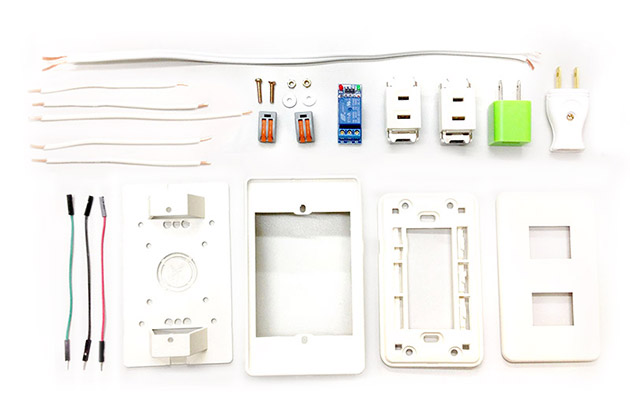
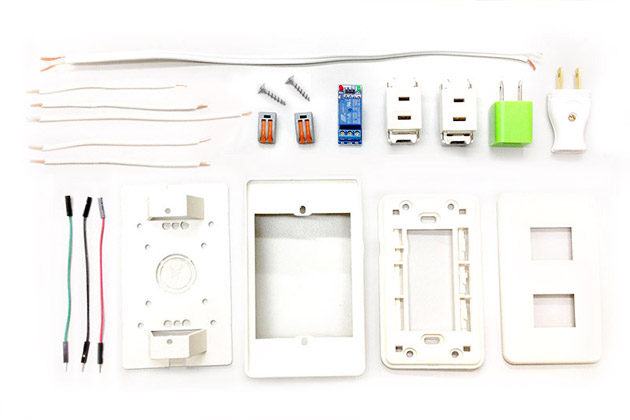
change image

diff --git a/buy/webduino-package-socket.html b/buy/webduino-package-socket.html
@@ -1,4 +1,4 @@
-<!DOCTYPE html> <html lang="en"> <head> <meta charset="UTF-8"> <meta http-equiv="pragma" content="no-cache"> <meta name="viewport" content="width=device-width, initial-scale=1, maximum-scale=1, user-scalable=no"> <meta name="author" content="webduino.io"> <meta name="copyright" content="webduino.io"> <meta itemprop="name" content="webduino.io"> <link rel="icon" href="../img/layout/favicon.ico" type="image/x-icon"> <title>Webduino 智慧插座套件 ( 電子材料包 ) - 產品總覽 ::: Webduino = Web × Arduino</title> <meta name="description" content="Webduino 智慧插座是將我們一般生活裡常見的插座改裝，透過馬克一號或是 Fly 與繼電器的輔助，讓插座可透過無線網路連上雲端，如此一來就可以輕鬆實現手機遙控插座、設定插座自動供電設施、依據氣溫自動啟動風扇...等智慧插座應用。"> <meta itemprop="description" content="Webduino 智慧插座是將我們一般生活裡常見的插座改裝，透過馬克一號或是 Fly 與繼電器的輔助，讓插座可透過無線網路連上雲端，如此一來就可以輕鬆實現手機遙控插座、設定插座自動供電設施、依據氣溫自動啟動風扇...等智慧插座應用。"> <meta property="og:description" content="Webduino 智慧插座是將我們一般生活裡常見的插座改裝，透過馬克一號或是 Fly 與繼電器的輔助，讓插座可透過無線網路連上雲端，如此一來就可以輕鬆實現手機遙控插座、設定插座自動供電設施、依據氣溫自動啟動風扇...等智慧插座應用。"> <meta property="og:title" content="Webduino 智慧插座套件 ( 電子材料包 )"> <meta property="og:url" content="https://webduino.io/buy/webduino-package-socket.html"> <meta property="og:image" content="https://webduino.io/img/buy/package-socket-01s.jpg"> <meta itemprop="image" content="https://webduino.io/img/buy/package-socket-01s.jpg"> <script src="../js/lib/jquery.min.js"></script> <script src="../js/lib/jquery.lazyload.min.js"></script> <script src="../js/layout.js"></script> <script src="../js/buy.js"></script> <script src="../js/lib/disqus.js"></script> <link rel="stylesheet" href="../style/css/layout.css"> <link rel="stylesheet" href="../style/css/sub-header.css"> <link rel="stylesheet" href="../style/css/buy-content.css"> </head> <body> <header class="path-0"> <a class="logo" href="index.html" data-name="layout-header-logo"></a> <div class="mobile-menu"></div> <div class="menu"> <a href="index.html" class="index" data-name="layout-mobile-menu">首頁</a> <a href="tutorials.html" class="tutorials" data-name="layout-mobile-menu">教學範例</a> <a href="buy.html" class="buy" data-name="layout-mobile-menu">產品總覽</a> <a href="activity.html" class="activity" data-name="layout-mobile-menu">課程活動</a> <a data-name="layout-mobile-menu" href="https://www.facebook.com/webduino/info?tab=overview" target="_blank">連絡我們</a> </div> </header> <header class="path-1"> <a class="logo" href="../index.html"></a> <div class="mobile-menu"></div> <div class="menu"> <a href="../index.html" class="index" data-name="layout-menu">首頁</a> <a href="../tutorials.html" class="tutorials" data-name="layout-menu">教學範例</a> <a href="../buy.html" class="buy" data-name="layout-menu">產品總覽</a> <a href="../activity.html" class="activity" data-name="layout-menu">課程活動</a> <a data-name="layout-mobile-menu" href="https://www.facebook.com/webduino/info?tab=overview" target="_blank">連絡我們</a> </div> </header> <div class="banner"> <img src="../img/buy/webduino-package-socket-01.jpg"> </div> <div class="content"> <h1>Webduino 智慧插座套件 ( 電子材料包 )</h1> <p>Webduino 智慧插座是將我們一般生活裡常見的插座改裝，透過馬克一號或是 Fly 與繼電器的輔助，讓插座可透過無線網路連上雲端，如此一來就可以輕鬆實現手機遙控插座、設定插座自動供電設施、依據氣溫自動啟動風扇...等智慧插座應用。</p> <h2>售價：</h2> <p><strong>新台幣 630 元整</strong> ( 已含稅，原價 840 )</p> <div class="ruten"> <a href="http://webduinoio.github.io/ruten/ruten.html#21624898592501" target="_blank" data-name="ruten-button"><i class="fa fa-shopping-cart"></i> 立刻購買</a> </div> <p>點選「立刻購買」，將會前往 Webduino 露天賣場，貨運可以選擇「超商貨到付款」、「郵局包裹」、「7-11 取貨」模式，購買前請先 <a class="btn-know">閱讀購買須知以及退換貨說明</a>，歡迎政府機關、教育單位或公司行號採購，採購相關資訊請 <a href="mailto:service@webduino.io" target="_blank">來信</a> 或來電 07-3388511 洽詢。</p> <h2>產品內容：</h2> <ul> <li>1. 雙孔插外盒 x1</li> <li>2. 底板 x1</li> <li>3. 上層夾板 x1</li> <li>4. 螺絲、螺帽、墊片 x2</li> <li>5. 插座 x2</li> <li>6. 單心線 x5</li> <li>7. 插頭 x1</li> <li>8. 插頭電線 x1</li> <li>9. 快速接頭 x2</li> <li>10.杜邦線 ( 公母 ) x3</li> <li>11.繼電器 x1</li> <li>12.USB 接頭 x1</li> </ul> <h2>產品照片：</h2> <p><img src="../img/buy/webduino-package-socket-02.jpg" style="max-width:800px;"></p> <h2>和 Webduino 馬克 1 號組裝後長相：</h2> <p><img src="../img/buy/webduino-package-socket-03.jpg" style="max-width:900px;"></p> <div class="need-know" id="need-know"> <h4>購買須知 & 聲明：</h4> <div>當您透過 Webduino 的客服管道購買 Webduino 商品時，即表示您已詳細閱讀、明確瞭解並同意本 Webduino 出列舉注意事項之所有內容與規範。 <a class="readmore" data-name="readmore-button">閱讀相關內容 ( 點選展開 )</a> <ul> <li>1. 若有報帳需求，請提供「<strong>公司抬頭」與「統一編號」</strong>，歡迎公司行號、教育單位與政府機關採購。</li> <li>2. 我們會在<strong>每週一、四</strong>出貨，若您超過一個星期都尚未收到通知，麻煩與我們聯繫。</li> <li>3. 數量超過 1 件請確認貨運金額 ( 沒問題的話應該只會計算一次運費 )，金額有誤請與我們聯繫。</li> <li>4. 若<strong>收件地點為離島、國外...等非台灣本島地區，請與我們聯繫</strong>，確認相關運費與寄收件事宜。</li> <li>5. Webduino 團隊針對消費者與個人資料之蒐集和運用，依中華民國「電腦處理個人資料保護法」， 除事先說明或依台灣法律規定外，不會擅自將您的個人資料提供給第三者或作為其他目的之用。</li> </ul> </div> </div> <div class="need-know"> <h4>退換貨須知：</h4> <div>我們所提供的瑕疵與退換貨等售後服務，<strong>為收到商品的隔日起算的七日內（ 含例假日 ）</strong>。請您務必在收到商品時立即檢查商品，可以藉由教學實作的「<a href="../tutorials/info-02-setup.html" target="_blank">初始化設定</a>」以及「<a href="../tutorials/tutorial-01-led.html" target="_blank">第一個範例</a>」進行測試。 <a class="readmore" data-name="readmore-button">閱讀相關內容 ( 點選展開 )</a> <ul> <li>1. 請確認商品內容、品項、數量和是否為瑕疵商品的退貨。</li> <li>2. 退換貨商品請保持數樣與外觀完整，並且保持完整包裝。</li> <li>3. 如欲退換貨的瑕疵商品，請於辦理退換貨的同時，將商品配件請一併寄回。</li> <li>4. 若為人為操作造成的商品損壞，不在退換貨的範圍之內。</li> <li>5. 若非為瑕疵品或錯誤商品，退貨的郵資需由購買者負擔。</li> <li>6. 由於電子零件生產製程因素，可能邊緣會有輕微不平整、焊錫大小不同、黏著劑輕微不均勻的情形發生，均屬正常現象，這些不在我們列入的瑕疵商品，還請您見諒。</li> <li>7. 訂單一旦成立並且付款完成，我們會盡速為您準備您的商品。服務期間若您對處理方式或狀況有疑問，歡迎與 Webduino 客服聯繫。<br>( 客服時間：週一至週五 09:30 ~ 18:00，Email： <a href="mailto:service@webduino.io" target="_blank">service@webduino.io</a>，<a href="https://www.facebook.com/webduino" target="_blank">Facebook 粉絲團</a>傳訊息，或來電 07-3388511 )</li> </ul> </div> </div> <div class="need-more"> <h4>瞭解更多產品方案：</h4> <div><a href="component-webduino-v1.html">Webduino 馬克 1 號</a></div> <div><a href="component-webduino-fly.html">Webduino Fly ( Arduino UNO 雲端擴充板 )</a></div> <div><a href="component-webduino-uno-fly.html">Webduino Fly + Arduino UNO</a></div> <div><a href="webduino-developer-a.html">Webduino 開發者套件 - 基本包</a></div> <div><a href="webduino-developer-b.html">Webduino 開發者套件 - 威力加強包</a></div> <div><a href="webduino-package-plus.html">Webduino 基本套件 Plus ( 6/20 開始販售 )</a></div> <div><a href="webduino-package-all.html">Webduino 豪華套件包 ( 6/20 開始販售 )</a></div> <div><a href="webduino-expansion-s.html">Webduino 擴充套件 S ( 6/20 開始販售 )</a></div> <div><a href="webduino-expansion-m.html">Webduino 擴充套件 M ( 6/20 開始販售 )</a></div> <div><a href="webduino-expansion-p.html">Webduino 擴充套件 P ( 6/20 開始販售 )</a></div> <div><a href="webduino-package-b.html">Webduino Package B ( 電子材料包 )</a></div> <div><a href="webduino-package-ab.html">Webduino Package A + B ( 電子材料包 )</a></div> <div><a href="webduino-package-c.html">Webduino Package C ( 電子材料包 )</a></div> <div><a href="webduino-package-toycar.html">Webduino 公仔自走車 ( 電子材料包 )</a></div> <div><a href="webduino-package-socket.html">Webduino 智慧插座套件 ( 6/20 開始販售 )</a></div> </div> </div> <div class="tutorials-content"> <div class="banner"> </div> </div> <div class="disqus"> <div id="disqus_thread"></div> </div> <footer> <div class="logo"> <a href="index.html" data-name="layout-footer-logo"><i></i></a> <a href="../index.html" data-name="layout-footer-logo"><i></i></a> </div> <h4>Copyright 2015 | All Rights Reserved. Power by Webduino.io</h4> <h4>80661 高雄市前鎮區復興四路 20 號 1 樓 / 886-7-3388511</h4> </footer> <script>
+<!DOCTYPE html> <html lang="en"> <head> <meta charset="UTF-8"> <meta http-equiv="pragma" content="no-cache"> <meta name="viewport" content="width=device-width, initial-scale=1, maximum-scale=1, user-scalable=no"> <meta name="author" content="webduino.io"> <meta name="copyright" content="webduino.io"> <meta itemprop="name" content="webduino.io"> <link rel="icon" href="../img/layout/favicon.ico" type="image/x-icon"> <title>Webduino 智慧插座套件 ( 電子材料包 ) - 產品總覽 ::: Webduino = Web × Arduino</title> <meta name="description" content="Webduino 智慧插座是將我們一般生活裡常見的插座改裝，透過馬克一號或是 Fly 與繼電器的輔助，讓插座可透過無線網路連上雲端，如此一來就可以輕鬆實現手機遙控插座、設定插座自動供電設施、依據氣溫自動啟動風扇...等智慧插座應用。"> <meta itemprop="description" content="Webduino 智慧插座是將我們一般生活裡常見的插座改裝，透過馬克一號或是 Fly 與繼電器的輔助，讓插座可透過無線網路連上雲端，如此一來就可以輕鬆實現手機遙控插座、設定插座自動供電設施、依據氣溫自動啟動風扇...等智慧插座應用。"> <meta property="og:description" content="Webduino 智慧插座是將我們一般生活裡常見的插座改裝，透過馬克一號或是 Fly 與繼電器的輔助，讓插座可透過無線網路連上雲端，如此一來就可以輕鬆實現手機遙控插座、設定插座自動供電設施、依據氣溫自動啟動風扇...等智慧插座應用。"> <meta property="og:title" content="Webduino 智慧插座套件 ( 電子材料包 )"> <meta property="og:url" content="https://webduino.io/buy/webduino-package-socket.html"> <meta property="og:image" content="https://webduino.io/img/buy/package-socket-01s.jpg"> <meta itemprop="image" content="https://webduino.io/img/buy/package-socket-01s.jpg"> <script src="../js/lib/jquery.min.js"></script> <script src="../js/lib/jquery.lazyload.min.js"></script> <script src="../js/layout.js"></script> <script src="../js/buy.js"></script> <script src="../js/lib/disqus.js"></script> <link rel="stylesheet" href="../style/css/layout.css"> <link rel="stylesheet" href="../style/css/sub-header.css"> <link rel="stylesheet" href="../style/css/buy-content.css"> </head> <body> <header class="path-0"> <a class="logo" href="index.html" data-name="layout-header-logo"></a> <div class="mobile-menu"></div> <div class="menu"> <a href="index.html" class="index" data-name="layout-mobile-menu">首頁</a> <a href="tutorials.html" class="tutorials" data-name="layout-mobile-menu">教學範例</a> <a href="buy.html" class="buy" data-name="layout-mobile-menu">產品總覽</a> <a href="activity.html" class="activity" data-name="layout-mobile-menu">課程活動</a> <a data-name="layout-mobile-menu" href="https://www.facebook.com/webduino/info?tab=overview" target="_blank">連絡我們</a> </div> </header> <header class="path-1"> <a class="logo" href="../index.html"></a> <div class="mobile-menu"></div> <div class="menu"> <a href="../index.html" class="index" data-name="layout-menu">首頁</a> <a href="../tutorials.html" class="tutorials" data-name="layout-menu">教學範例</a> <a href="../buy.html" class="buy" data-name="layout-menu">產品總覽</a> <a href="../activity.html" class="activity" data-name="layout-menu">課程活動</a> <a data-name="layout-mobile-menu" href="https://www.facebook.com/webduino/info?tab=overview" target="_blank">連絡我們</a> </div> </header> <div class="banner"> <img src="../img/buy/webduino-package-socket-01.jpg"> </div> <div class="content"> <h1>Webduino 智慧插座套件 ( 電子材料包 )</h1> <p>Webduino 智慧插座是將我們一般生活裡常見的插座改裝，透過馬克一號或是 Fly 與繼電器的輔助，讓插座可透過無線網路連上雲端，如此一來就可以輕鬆實現手機遙控插座、設定插座自動供電設施、依據氣溫自動啟動風扇...等智慧插座應用。</p> <h2>售價：</h2> <p><strong>新台幣 630 元整</strong> ( 已含稅，原價 840 )</p> <div class="ruten"> <a href="http://webduinoio.github.io/ruten/ruten.html#21624898592501" target="_blank" data-name="ruten-button"><i class="fa fa-shopping-cart"></i> 立刻購買</a> </div> <p>點選「立刻購買」，將會前往 Webduino 露天賣場，貨運可以選擇「超商貨到付款」、「郵局包裹」、「7-11 取貨」模式，購買前請先 <a class="btn-know">閱讀購買須知以及退換貨說明</a>，歡迎政府機關、教育單位或公司行號採購，採購相關資訊請 <a href="mailto:service@webduino.io" target="_blank">來信</a> 或來電 07-3388511 洽詢。</p> <h2>產品內容：</h2> <ul> <li>1. 雙孔插外盒 x1</li> <li>2. 底板 x1</li> <li>3. 上層夾板 x1</li> <li>4. 螺絲 x2</li> <li>5. 插座 x2</li> <li>6. 單心線 x5</li> <li>7. 插頭 x1</li> <li>8. 插頭電線 x1</li> <li>9. 快速接頭 x2</li> <li>10.杜邦線 ( 公母 ) x3</li> <li>11.繼電器 x1</li> <li>12.USB 接頭 x1</li> </ul> <h2>產品照片：</h2> <p><img src="../img/buy/webduino-package-socket-02.jpg" style="max-width:800px;"></p> <h2>和 Webduino 馬克 1 號組裝後長相：</h2> <p><img src="../img/buy/webduino-package-socket-03.jpg" style="max-width:900px;"></p> <div class="need-know" id="need-know"> <h4>購買須知 & 聲明：</h4> <div>當您透過 Webduino 的客服管道購買 Webduino 商品時，即表示您已詳細閱讀、明確瞭解並同意本 Webduino 出列舉注意事項之所有內容與規範。 <a class="readmore" data-name="readmore-button">閱讀相關內容 ( 點選展開 )</a> <ul> <li>1. 若有報帳需求，請提供「<strong>公司抬頭」與「統一編號」</strong>，歡迎公司行號、教育單位與政府機關採購。</li> <li>2. 我們會在<strong>每週一、四</strong>出貨，若您超過一個星期都尚未收到通知，麻煩與我們聯繫。</li> <li>3. 數量超過 1 件請確認貨運金額 ( 沒問題的話應該只會計算一次運費 )，金額有誤請與我們聯繫。</li> <li>4. 若<strong>收件地點為離島、國外...等非台灣本島地區，請與我們聯繫</strong>，確認相關運費與寄收件事宜。</li> <li>5. Webduino 團隊針對消費者與個人資料之蒐集和運用，依中華民國「電腦處理個人資料保護法」， 除事先說明或依台灣法律規定外，不會擅自將您的個人資料提供給第三者或作為其他目的之用。</li> </ul> </div> </div> <div class="need-know"> <h4>退換貨須知：</h4> <div>我們所提供的瑕疵與退換貨等售後服務，<strong>為收到商品的隔日起算的七日內（ 含例假日 ）</strong>。請您務必在收到商品時立即檢查商品，可以藉由教學實作的「<a href="../tutorials/info-02-setup.html" target="_blank">初始化設定</a>」以及「<a href="../tutorials/tutorial-01-led.html" target="_blank">第一個範例</a>」進行測試。 <a class="readmore" data-name="readmore-button">閱讀相關內容 ( 點選展開 )</a> <ul> <li>1. 請確認商品內容、品項、數量和是否為瑕疵商品的退貨。</li> <li>2. 退換貨商品請保持數樣與外觀完整，並且保持完整包裝。</li> <li>3. 如欲退換貨的瑕疵商品，請於辦理退換貨的同時，將商品配件請一併寄回。</li> <li>4. 若為人為操作造成的商品損壞，不在退換貨的範圍之內。</li> <li>5. 若非為瑕疵品或錯誤商品，退貨的郵資需由購買者負擔。</li> <li>6. 由於電子零件生產製程因素，可能邊緣會有輕微不平整、焊錫大小不同、黏著劑輕微不均勻的情形發生，均屬正常現象，這些不在我們列入的瑕疵商品，還請您見諒。</li> <li>7. 訂單一旦成立並且付款完成，我們會盡速為您準備您的商品。服務期間若您對處理方式或狀況有疑問，歡迎與 Webduino 客服聯繫。<br>( 客服時間：週一至週五 09:30 ~ 18:00，Email： <a href="mailto:service@webduino.io" target="_blank">service@webduino.io</a>，<a href="https://www.facebook.com/webduino" target="_blank">Facebook 粉絲團</a>傳訊息，或來電 07-3388511 )</li> </ul> </div> </div> <div class="need-more"> <h4>瞭解更多產品方案：</h4> <div><a href="component-webduino-v1.html">Webduino 馬克 1 號</a></div> <div><a href="component-webduino-fly.html">Webduino Fly ( Arduino UNO 雲端擴充板 )</a></div> <div><a href="component-webduino-uno-fly.html">Webduino Fly + Arduino UNO</a></div> <div><a href="webduino-developer-a.html">Webduino 開發者套件 - 基本包</a></div> <div><a href="webduino-developer-b.html">Webduino 開發者套件 - 威力加強包</a></div> <div><a href="webduino-package-plus.html">Webduino 基本套件 Plus ( 6/20 開始販售 )</a></div> <div><a href="webduino-package-all.html">Webduino 豪華套件包 ( 6/20 開始販售 )</a></div> <div><a href="webduino-expansion-s.html">Webduino 擴充套件 S ( 6/20 開始販售 )</a></div> <div><a href="webduino-expansion-m.html">Webduino 擴充套件 M ( 6/20 開始販售 )</a></div> <div><a href="webduino-expansion-p.html">Webduino 擴充套件 P ( 6/20 開始販售 )</a></div> <div><a href="webduino-package-b.html">Webduino Package B ( 電子材料包 )</a></div> <div><a href="webduino-package-ab.html">Webduino Package A + B ( 電子材料包 )</a></div> <div><a href="webduino-package-c.html">Webduino Package C ( 電子材料包 )</a></div> <div><a href="webduino-package-toycar.html">Webduino 公仔自走車 ( 電子材料包 )</a></div> <div><a href="webduino-package-socket.html">Webduino 智慧插座套件 ( 6/20 開始販售 )</a></div> </div> </div> <div class="tutorials-content"> <div class="banner"> </div> </div> <div class="disqus"> <div id="disqus_thread"></div> </div> <footer> <div class="logo"> <a href="index.html" data-name="layout-footer-logo"><i></i></a> <a href="../index.html" data-name="layout-footer-logo"><i></i></a> </div> <h4>Copyright 2015 | All Rights Reserved. Power by Webduino.io</h4> <h4>80661 高雄市前鎮區復興四路 20 號 1 樓 / 886-7-3388511</h4> </footer> <script>
   (function(i,s,o,g,r,a,m){i['GoogleAnalyticsObject']=r;i[r]=i[r]||function(){
   (i[r].q=i[r].q||[]).push(arguments)},i[r].l=1*new Date();a=s.createElement(o),
   m=s.getElementsByTagName(o)[0];a.async=1;a.src=g;m.parentNode.insertBefore(a,m)
